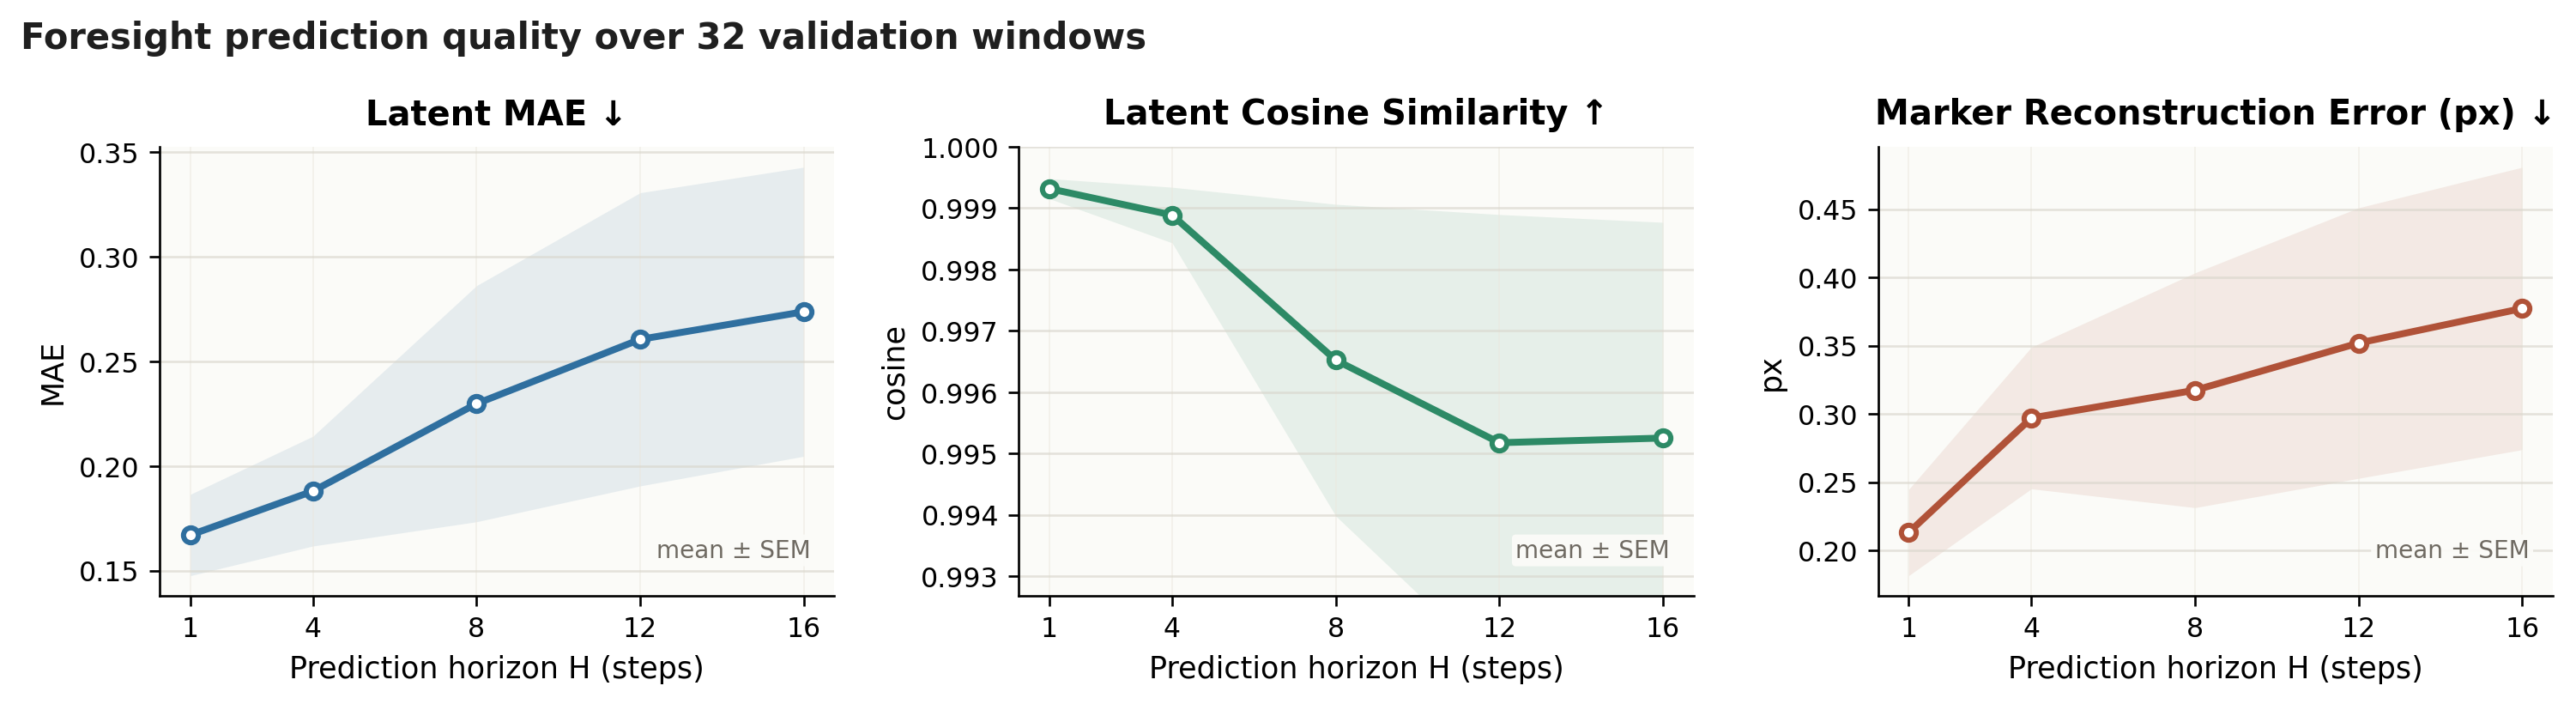
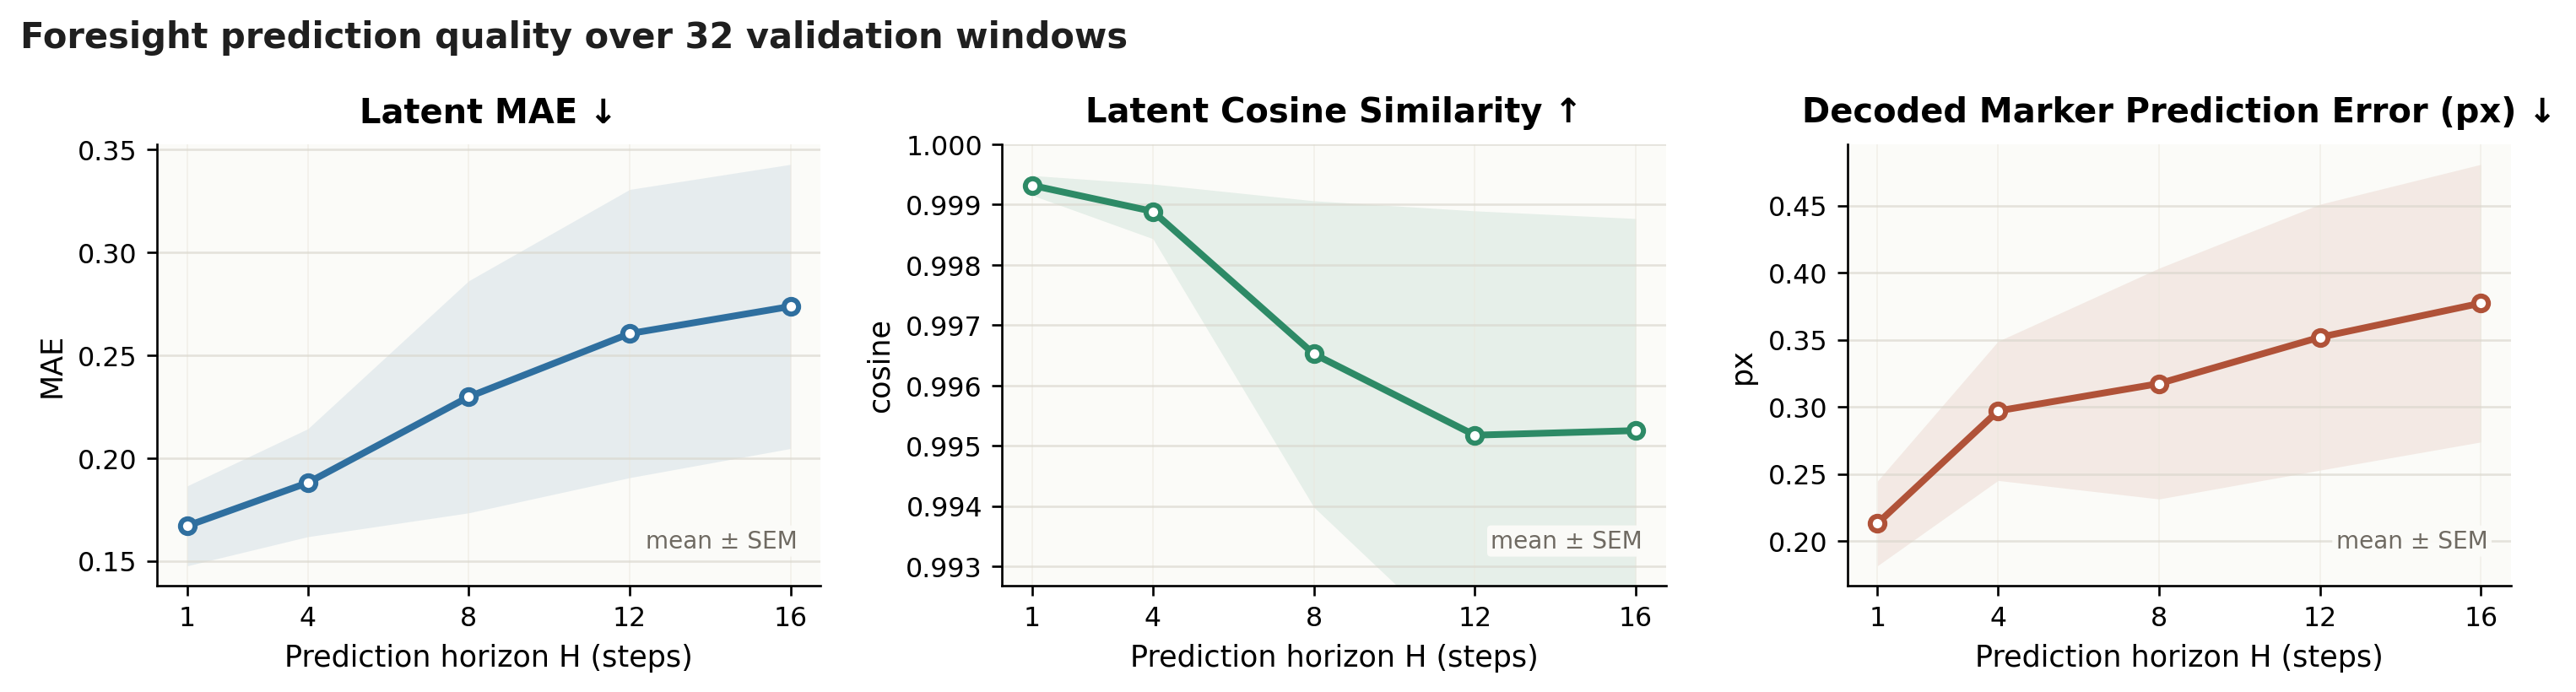
Prepare ForeTac project page release

diff --git a/index.html b/index.html
@@ -136,31 +136,35 @@
     <h2 class="section-title">Results</h2>
 
     <h3>Main Comparison</h3>
-    <p class="section-lead">We compare Ours against DP, DP+tactile, π0.5, RDP, and ForeAR across all four tasks.</p>
+    <p class="section-lead">We compare Ours against DP, DP+tactile, π0.5, RDP, and ForeAR across five contact-rich tasks.</p>
     <div class="content-card results-table-card">
       <table class="comp-table main-results-table">
         <thead>
-          <tr>
+          <tr class="task-header">
             <th rowspan="2">Method</th>
-            <th colspan="2">Board Wiping</th>
-            <th colspan="2">Vase Wiping</th>
-            <th colspan="2">Card Swiping</th>
-            <th colspan="2">Chip Grasping</th>
+            <th colspan="2">Board</th>
+            <th colspan="2">Vase</th>
+            <th colspan="2">Card</th>
+            <th colspan="2">Chip</th>
+            <th colspan="2">Socket</th>
           </tr>
           <tr class="metric-header">
-            <th>Success Rate ↑</th>
-            <th>Safe Success Rate ↑</th>
-            <th>Success Rate ↑</th>
-            <th>Safe Success Rate ↑</th>
-            <th>Success Rate ↑</th>
-            <th>Safe Success Rate ↑</th>
-            <th>Success Rate ↑</th>
-            <th>Safe Success Rate ↑</th>
+            <th>Success ↑</th>
+            <th>Safe Success ↑</th>
+            <th>Success ↑</th>
+            <th>Safe Success ↑</th>
+            <th>Success ↑</th>
+            <th>Safe Success ↑</th>
+            <th>Success ↑</th>
+            <th>Safe Success ↑</th>
+            <th>Success ↑</th>
+            <th>Safe Success ↑</th>
           </tr>
         </thead>
         <tbody>
           <tr>
             <td>DP</td>
+            <td class="tbd">TBD</td><td class="tbd">TBD</td>
             <td class="tbd">TBD</td><td class="tbd">TBD</td>
             <td class="tbd">TBD</td><td class="tbd">TBD</td>
             <td class="tbd">TBD</td><td class="tbd">TBD</td>
@@ -172,9 +176,11 @@
             <td class="tbd">TBD</td><td class="tbd">TBD</td>
             <td class="tbd">TBD</td><td class="tbd">TBD</td>
             <td class="tbd">TBD</td><td class="tbd">TBD</td>
+            <td class="tbd">TBD</td><td class="tbd">TBD</td>
           </tr>
           <tr>
             <td>π0.5</td>
+            <td class="tbd">TBD</td><td class="tbd">TBD</td>
             <td class="tbd">TBD</td><td class="tbd">TBD</td>
             <td class="tbd">TBD</td><td class="tbd">TBD</td>
             <td class="tbd">TBD</td><td class="tbd">TBD</td>
@@ -186,6 +192,7 @@
             <td class="tbd">TBD</td><td class="tbd">TBD</td>
             <td class="tbd">TBD</td><td class="tbd">TBD</td>
             <td class="tbd">TBD</td><td class="tbd">TBD</td>
+            <td class="tbd">TBD</td><td class="tbd">TBD</td>
           </tr>
           <tr>
             <td>ForeAR</td>
@@ -193,9 +200,11 @@
             <td class="tbd">TBD</td><td class="tbd">TBD</td>
             <td class="tbd">TBD</td><td class="tbd">TBD</td>
             <td class="tbd">TBD</td><td class="tbd">TBD</td>
+            <td class="tbd">TBD</td><td class="tbd">TBD</td>
           </tr>
           <tr class="row-ours row-ours-primary">
             <td>Ours</td>
+            <td class="tbd">TBD</td><td class="tbd">TBD</td>
             <td class="tbd">TBD</td><td class="tbd">TBD</td>
             <td class="tbd">TBD</td><td class="tbd">TBD</td>
             <td class="tbd">TBD</td><td class="tbd">TBD</td>
@@ -255,40 +264,76 @@
     </div>
     <p class="fig-caption"><strong>Table 2.</strong> Ablation study showing the contribution of each component.</p>
 
-    <h3>Tactile Reconstruction</h3>
+    <h3>Latent Reconstruction Quality</h3>
+    <p class="section-lead">TacVAE compresses tactile marker displacement histories into compact latent maps, then decodes them back to marker displacement fields before downstream foresight prediction.</p>
     <div class="content-card results-table-card">
-      <table class="comp-table module-results-table">
+      <table class="comp-table tactile-results-table">
         <thead>
-          <tr>
-            <th>Representation</th>
-            <th>Reconstruction Error &darr;</th>
-            <th>Downstream Safe Success Rate &uarr;</th>
+          <tr class="task-header">
+            <th rowspan="2">Encoder</th>
+            <th colspan="2">Board</th>
+            <th colspan="2">Vase</th>
+            <th colspan="2">Card</th>
+            <th colspan="2">Chip</th>
+            <th colspan="2">Socket</th>
+          </tr>
+          <tr class="metric-header">
+            <th>Norm. MAE ↓</th>
+            <th>Cos ↑</th>
+            <th>Norm. MAE ↓</th>
+            <th>Cos ↑</th>
+            <th>Norm. MAE ↓</th>
+            <th>Cos ↑</th>
+            <th>Norm. MAE ↓</th>
+            <th>Cos ↑</th>
+            <th>Norm. MAE ↓</th>
+            <th>Cos ↑</th>
           </tr>
         </thead>
         <tbody>
           <tr>
-            <td>PCA-AE<span class="note">linear reconstruction baseline</span></td>
+            <td>PCA</td>
+            <td class="tbd">TBD</td><td class="tbd">TBD</td>
+            <td class="tbd">TBD</td><td class="tbd">TBD</td>
+            <td class="tbd">TBD</td><td class="tbd">TBD</td>
+            <td class="tbd">TBD</td><td class="tbd">TBD</td>
             <td class="tbd">TBD</td><td class="tbd">TBD</td>
           </tr>
           <tr>
-            <td>PointNet-AE<span class="note">point-set autoencoder baseline</span></td>
+            <td>PointNet-AE</td>
+            <td class="tbd">TBD</td><td class="tbd">TBD</td>
+            <td class="tbd">TBD</td><td class="tbd">TBD</td>
+            <td class="tbd">TBD</td><td class="tbd">TBD</td>
+            <td class="tbd">TBD</td><td class="tbd">TBD</td>
+            <td class="tbd">TBD</td><td class="tbd">TBD</td>
+          </tr>
+          <tr>
+            <td>Conv-AE / ConvVAE</td>
+            <td class="tbd">TBD</td><td class="tbd">TBD</td>
+            <td class="tbd">TBD</td><td class="tbd">TBD</td>
+            <td class="tbd">TBD</td><td class="tbd">TBD</td>
+            <td class="tbd">TBD</td><td class="tbd">TBD</td>
             <td class="tbd">TBD</td><td class="tbd">TBD</td>
           </tr>
           <tr class="row-ours row-ours-primary">
-            <td>TacVAE (Ours)<span class="note">latent tactile representation used by ForeTac</span></td>
+            <td>TacVAE (Ours)</td>
+            <td>0.039</td><td>0.998</td>
+            <td>0.110</td><td>0.986</td>
+            <td>0.039</td><td>0.998</td>
             <td class="tbd">TBD</td><td class="tbd">TBD</td>
+            <td>0.038</td><td>0.998</td>
           </tr>
         </tbody>
       </table>
     </div>
-    <p class="fig-caption"><strong>Table 3.</strong> Reconstruction quality and downstream control performance for tactile representation modules.</p>
+    <p class="fig-caption"><strong>Table 3.</strong> Latent reconstruction quality across the five task datasets. Norm. MAE measures normalized marker-field reconstruction error, while cosine similarity measures directional consistency of the reconstructed tactile deformation. Chip-grasping reconstruction evaluation is pending.</p>
 
     <h3>Foresight Prediction Quality</h3>
-    <p class="section-lead">Prediction accuracy is evaluated across foresight horizons. Final results will report the mean and variance over evaluation windows for every prediction metric.</p>
+    <p class="section-lead">The foresight model predicts future TacVAE latents, and the predicted latents are decoded back to marker displacement fields for evaluation.</p>
     <div class="content-card">
-      <img src="static/images/foresight_prediction_quality_horizons.png" alt="Foresight prediction quality across horizons">
+      <img src="static/images/foresight_prediction_quality_horizons.png" alt="Foresight prediction quality across horizons with decoded marker prediction error">
     </div>
-    <p class="fig-caption"><strong>Figure 4.</strong> Tactile foresight prediction accuracy across horizons H=1, 4, 8, 12, 16, measured by latent MAE, latent cosine similarity, and marker reconstruction error. The current curves show mean &plusmn; SEM over 32 validation windows; final reporting will include the corresponding mean and variance.</p>
+    <p class="fig-caption"><strong>Figure 4.</strong> Tactile foresight prediction accuracy across horizons H=1, 4, 8, 12, 16, measured by latent MAE, latent cosine similarity, and decoded marker prediction error.</p>
 
     <h3>Guidance Diagnostics</h3>
     <p class="section-lead">

diff --git a/static/css/style.css b/static/css/style.css
@@ -546,10 +546,17 @@ h3 {
 
 .results-table-card {
   overflow-x: auto;
+  padding: 0;
+  width: min(1040px, calc(100vw - 48px));
+  margin: 0 auto;
 }
 
 .main-results-table {
-  min-width: 1180px;
+  min-width: 980px;
+}
+
+.tactile-results-table {
+  min-width: 960px;
 }
 
 .ablation-results-table { min-width: 820px; }
@@ -557,7 +564,7 @@ h3 {
 
 .comp-table th,
 .comp-table td {
-  padding: 12px 14px;
+  padding: 9px 9px;
   border-bottom: 1px solid var(--gray-200);
   text-align: left;
   vertical-align: top;
@@ -568,30 +575,52 @@ h3 {
   font-weight: 700;
   text-transform: uppercase;
   letter-spacing: 0.5px;
-  color: var(--gray-600);
-  background: var(--gray-100);
-  position: sticky;
-  top: 0;
+  color: var(--text);
+  background: linear-gradient(180deg, #F8FAFC 0%, #EEF2F7 100%);
+}
+
+.comp-table .task-header th {
+  text-align: center;
+  color: var(--navy);
+  background: linear-gradient(180deg, #FFF7ED 0%, #F5F3FF 100%);
+  border-bottom: 1px solid #D9DDE8;
+}
+
+.comp-table .task-header th:first-child {
+  text-align: left;
 }
 
 .comp-table .metric-header th {
-  font-size: 10px;
-  letter-spacing: 0.3px;
+  font-size: 9.5px;
+  letter-spacing: 0.2px;
   text-align: center;
-  color: var(--text-muted);
+  color: var(--gray-600);
   background: #F8FAFC;
+  border-bottom: 2px solid var(--gray-200);
 }
 
-.comp-table td:first-child { font-weight: 600; white-space: nowrap; }
+.comp-table td:first-child { font-weight: 600; white-space: nowrap; min-width: 78px; }
 
 .main-results-table th:not(:first-child),
 .main-results-table td:not(:first-child),
 .ablation-results-table th:not(:first-child),
 .ablation-results-table td:not(:first-child),
 .module-results-table th:not(:first-child),
-.module-results-table td:not(:first-child) {
+.module-results-table td:not(:first-child),
+.tactile-results-table th:not(:first-child),
+.tactile-results-table td:not(:first-child) {
   text-align: center;
   white-space: nowrap;
+}
+
+.main-results-table td:first-child,
+.tactile-results-table td:first-child {
+  background: var(--white);
+}
+
+.main-results-table .row-ours td:first-child,
+.tactile-results-table .row-ours td:first-child {
+  background: #FFF7ED;
 }
 
 .comp-table .year {

diff --git a/tools/plot_foresight_prediction_quality.py b/tools/plot_foresight_prediction_quality.py
@@ -88,7 +88,7 @@ def plot(metrics: dict, out_path: Path) -> None:
         ),
         (
             "C",
-            "Marker Reconstruction Error (px) ↓",
+            "Decoded Marker Prediction Error (px) ↓",
             np.asarray(metrics["marker_reconstruction_error_px"]),
             np.asarray(metrics["marker_reconstruction_error_px_sem"]),
             "#b05238",